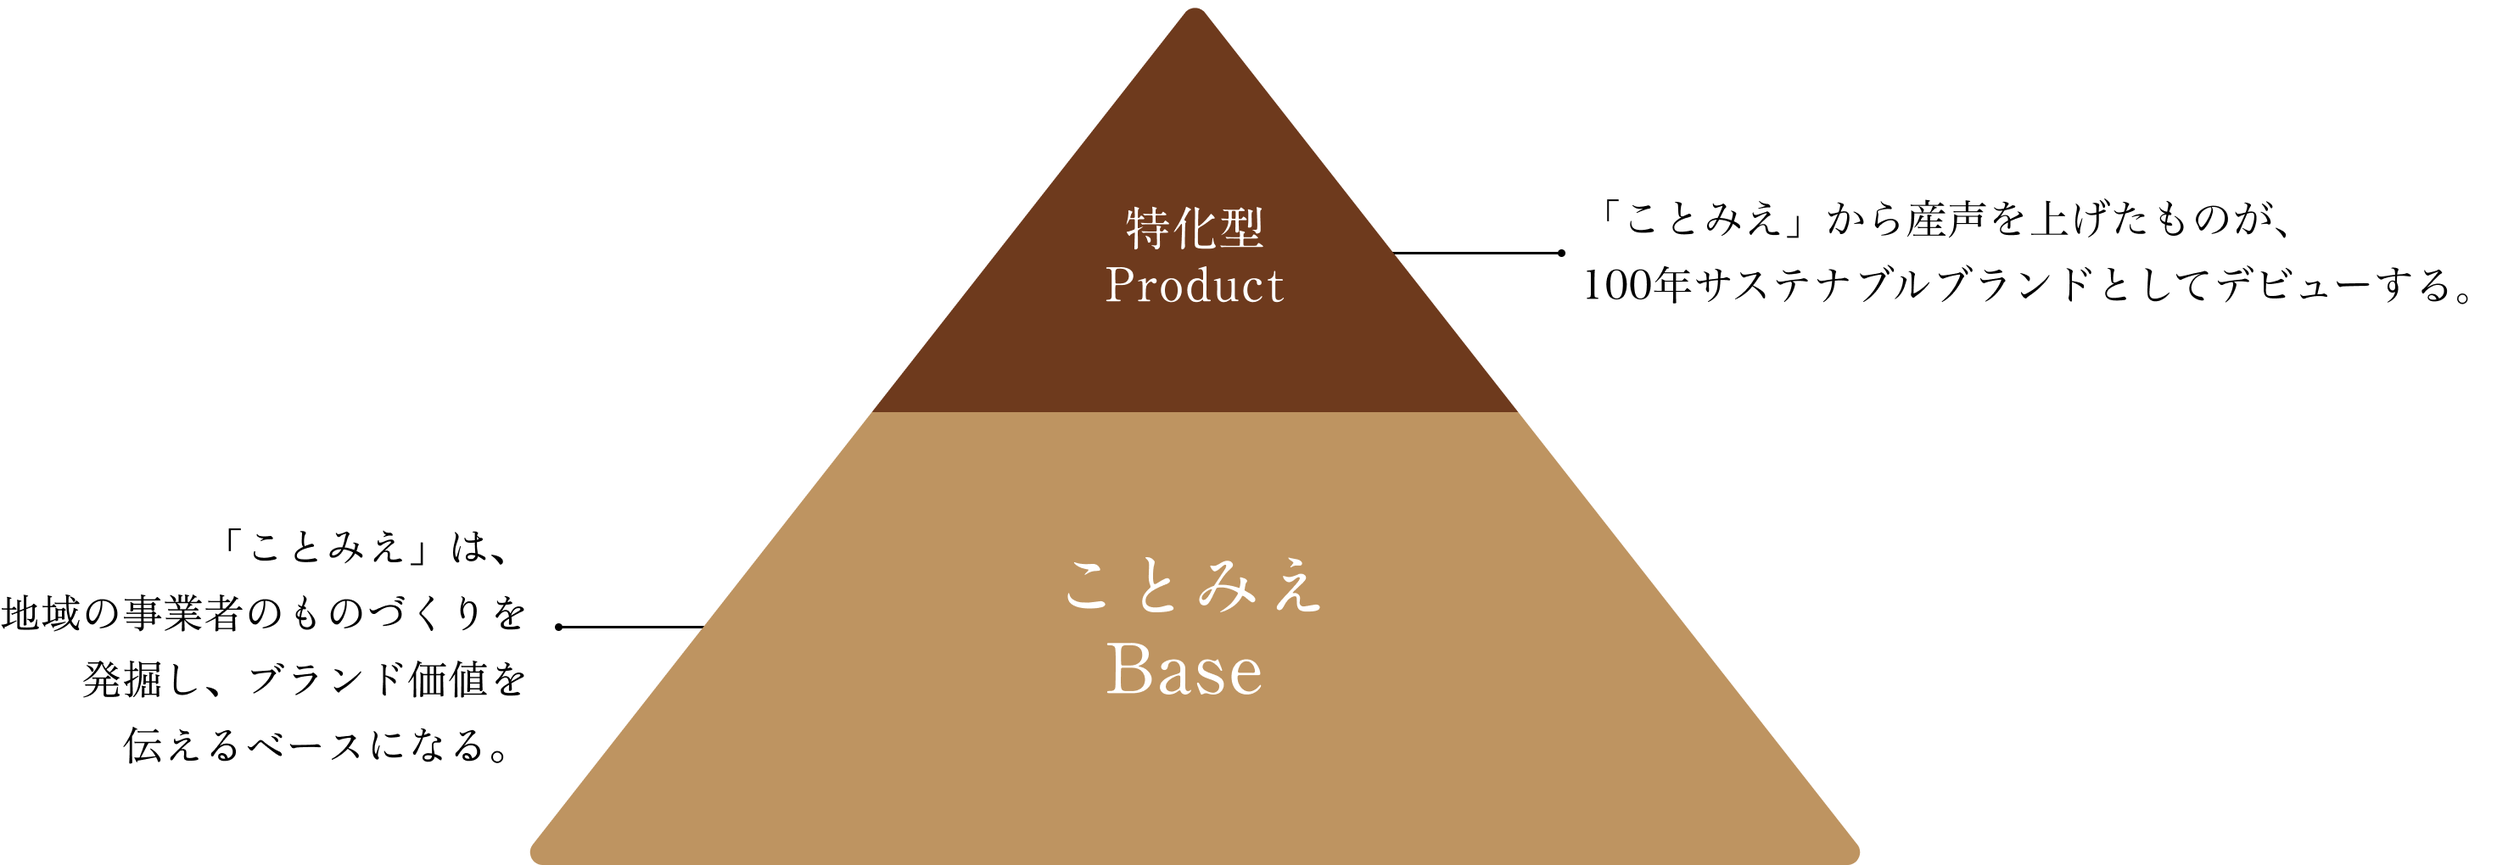
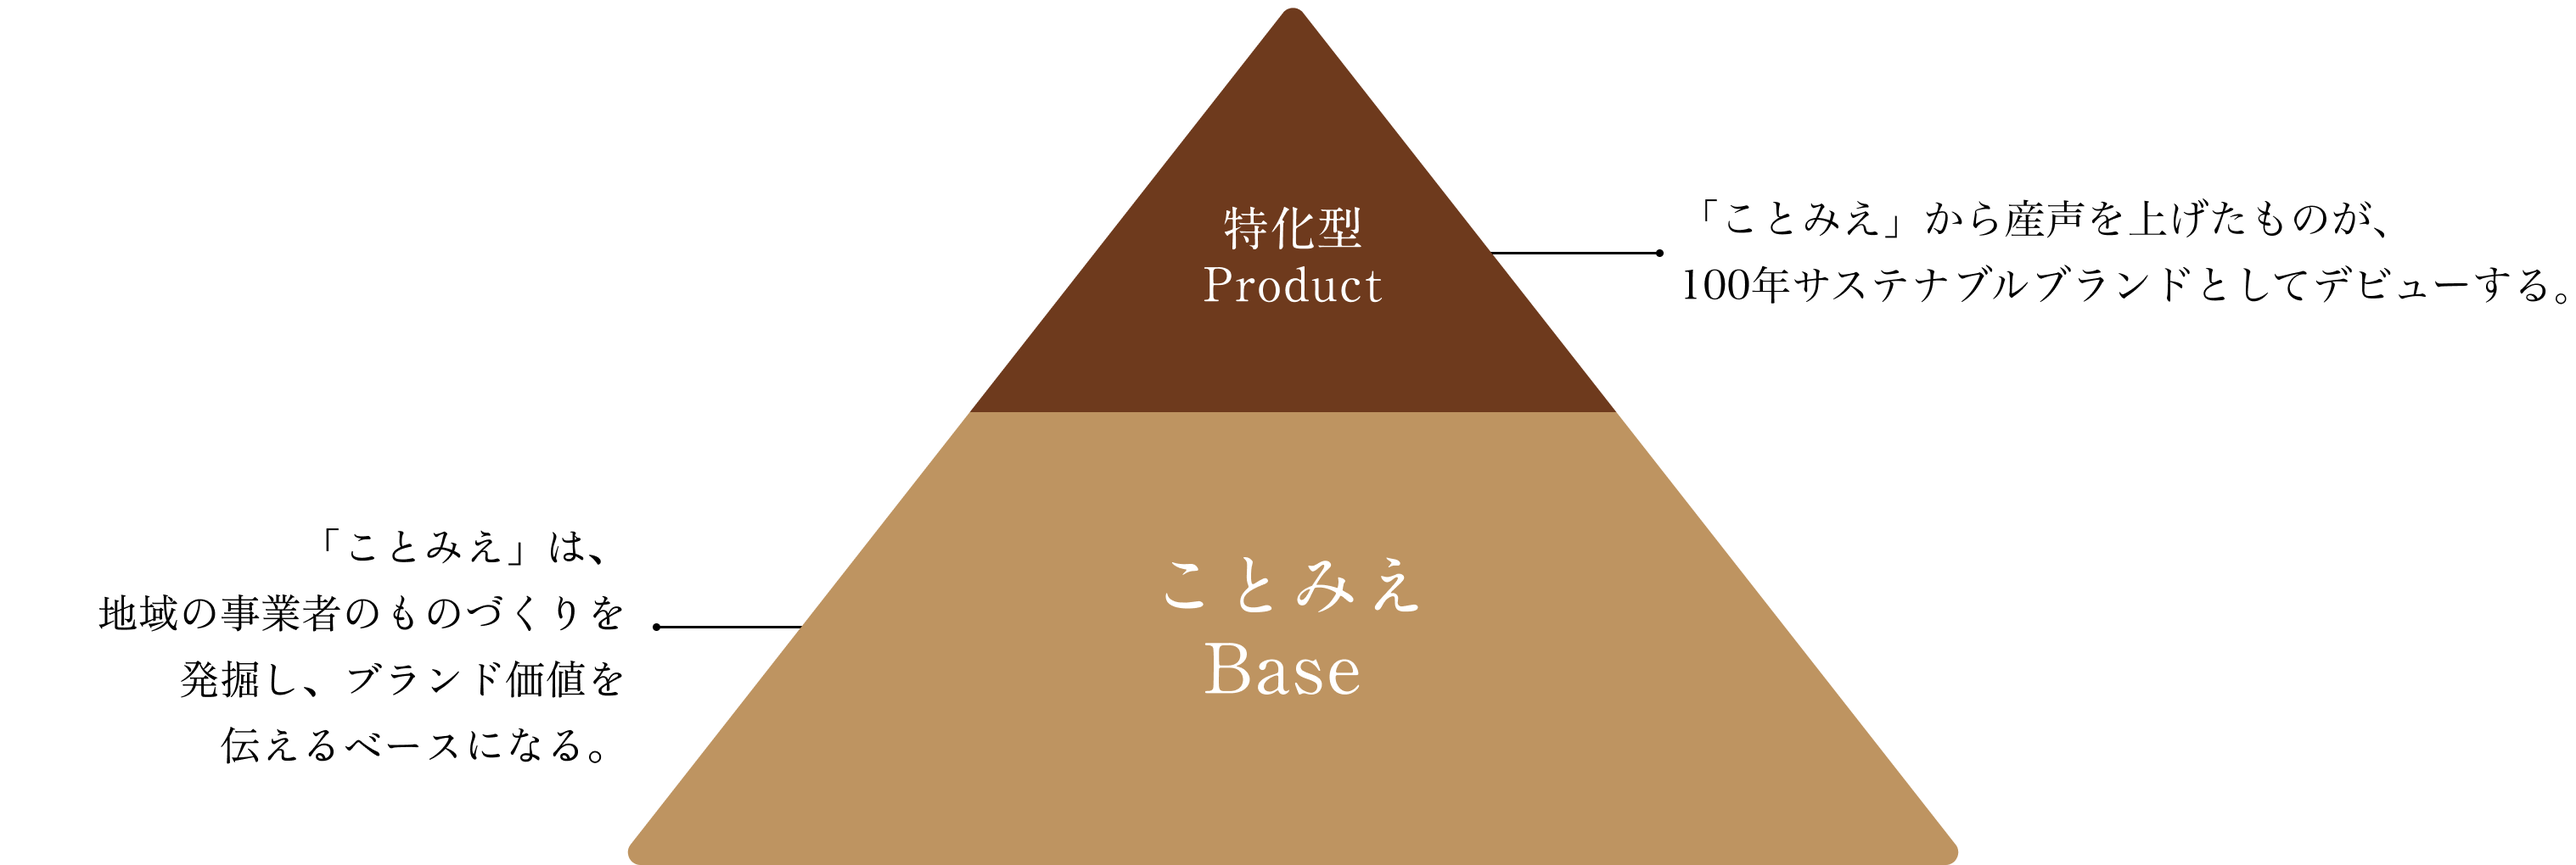
topページ完了！

diff --git a/scss/_main.scss b/scss/_main.scss
@@ -221,7 +221,7 @@ img {
     }
   }
   ul {
-    width: min(800px, 90%);
+    width: min(800px, 95%);
     padding-left: 3rem;
     margin: 0 auto;
     display: flex;
@@ -242,8 +242,10 @@ img {
       transform: rotate(90deg);
       @include common.mq('tab') {
         transform: rotate(0deg);
-        width: 100%;
         position: relative;
+        left: inherit;
+        font-size: 2rem;
+        margin-bottom: 1rem;
       }
     }
     li {
@@ -258,13 +260,31 @@ img {
         justify-content: space-between;
         width: 100%;
         color: #8D8D8D;
-        padding: 2.6rem 0 2.6rem 10px;
+        padding: 2.6rem 2.6rem 2.6rem 1rem;
+        font-size: 1.8rem;
+        position: relative;
+        @include common.mq('tab') {
+          font-size: 1.6rem;
+        }
+        @include common.mq('sp') {
+          font-size: 1.4rem;
+          padding: 1rem 2.6rem 1rem 1rem;
+        }
         &::after {
           content: " ";
+          position: absolute;
+          right: 0;
+          top: 50%;
+          transform: translateY(-50%);
           background-image: url(../img/menu_arrow.svg);
           width: 35px;
           height: 35px;
-          background-size: cover;
+          background-size: contain;
+          background-repeat: no-repeat;
+          @include common.mq('tab') {
+            width: 25px;
+            height: 25px;
+          }
         }
       }
     }
@@ -288,8 +308,9 @@ img {
       margin: 1rem auto;
     }
     img {
-      width: 50%;
+      width: min(960px, 50%);
       position: absolute;
+      z-index: 3;
       @include common.mq('tab') {
         position: relative;
         width: 95%;

diff --git a/css/style.css b/css/style.css
@@ -334,7 +334,7 @@ img {
   }
 }
 .menu ul {
-  width: min(800px, 90%);
+  width: min(800px, 95%);
   padding-left: 3rem;
   margin: 0 auto;
   display: flex;
@@ -360,8 +360,10 @@ img {
 @media screen and (max-width: 1199px) {
   .menu ul::before {
     transform: rotate(0deg);
-    width: 100%;
     position: relative;
+    left: inherit;
+    font-size: 2rem;
+    margin-bottom: 1rem;
   }
 }
 .menu ul li {
@@ -377,14 +379,38 @@ img {
   justify-content: space-between;
   width: 100%;
   color: #8D8D8D;
-  padding: 2.6rem 0 2.6rem 10px;
+  padding: 2.6rem 2.6rem 2.6rem 1rem;
+  font-size: 1.8rem;
+  position: relative;
+}
+@media screen and (max-width: 1199px) {
+  .menu ul li a {
+    font-size: 1.6rem;
+  }
+}
+@media screen and (max-width: 630px) {
+  .menu ul li a {
+    font-size: 1.4rem;
+    padding: 1rem 2.6rem 1rem 1rem;
+  }
 }
 .menu ul li a::after {
   content: " ";
+  position: absolute;
+  right: 0;
+  top: 50%;
+  transform: translateY(-50%);
   background-image: url(../img/menu_arrow.svg);
   width: 35px;
   height: 35px;
-  background-size: cover;
+  background-size: contain;
+  background-repeat: no-repeat;
+}
+@media screen and (max-width: 1199px) {
+  .menu ul li a::after {
+    width: 25px;
+    height: 25px;
+  }
 }
 
 /*---------------------------------
@@ -407,8 +433,9 @@ img {
   }
 }
 .items .item img {
-  width: 50%;
+  width: min(960px, 50%);
   position: absolute;
+  z-index: 3;
 }
 @media screen and (max-width: 1199px) {
   .items .item img {

diff --git a/index.html b/index.html
@@ -108,7 +108,7 @@
         <div class="img_wrap fade_up js-scroll-trigger">
           <picture>
             <!-- pcの画像 -->
-            <source srcset="img/kotomie_img3_sp.png" media="(min-width: 481px)" type="image/png">
+            <source srcset="img/kotomie_img3.png" media="(min-width: 481px)" type="image/png">
             <!-- spの画像 -->
             <img src="img/kotomie_img3_sp.png" alt="ことみえの仕組み像">
           </picture>
